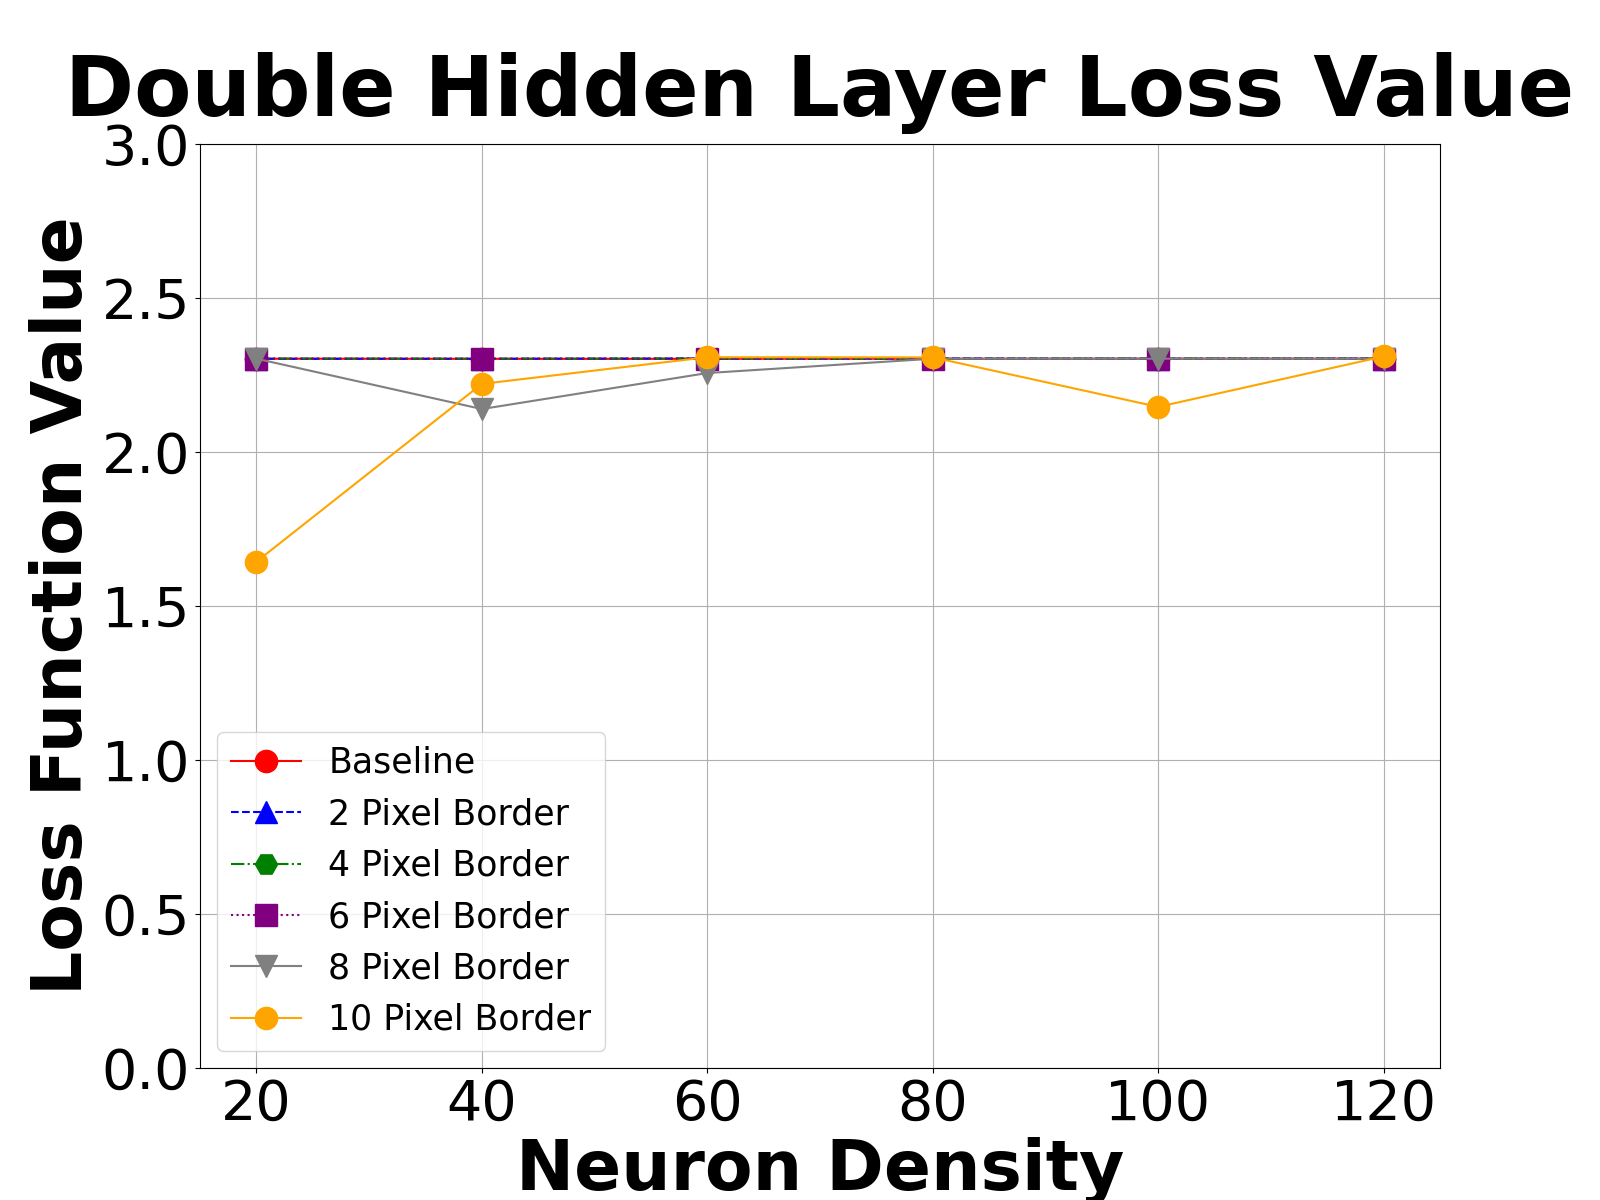
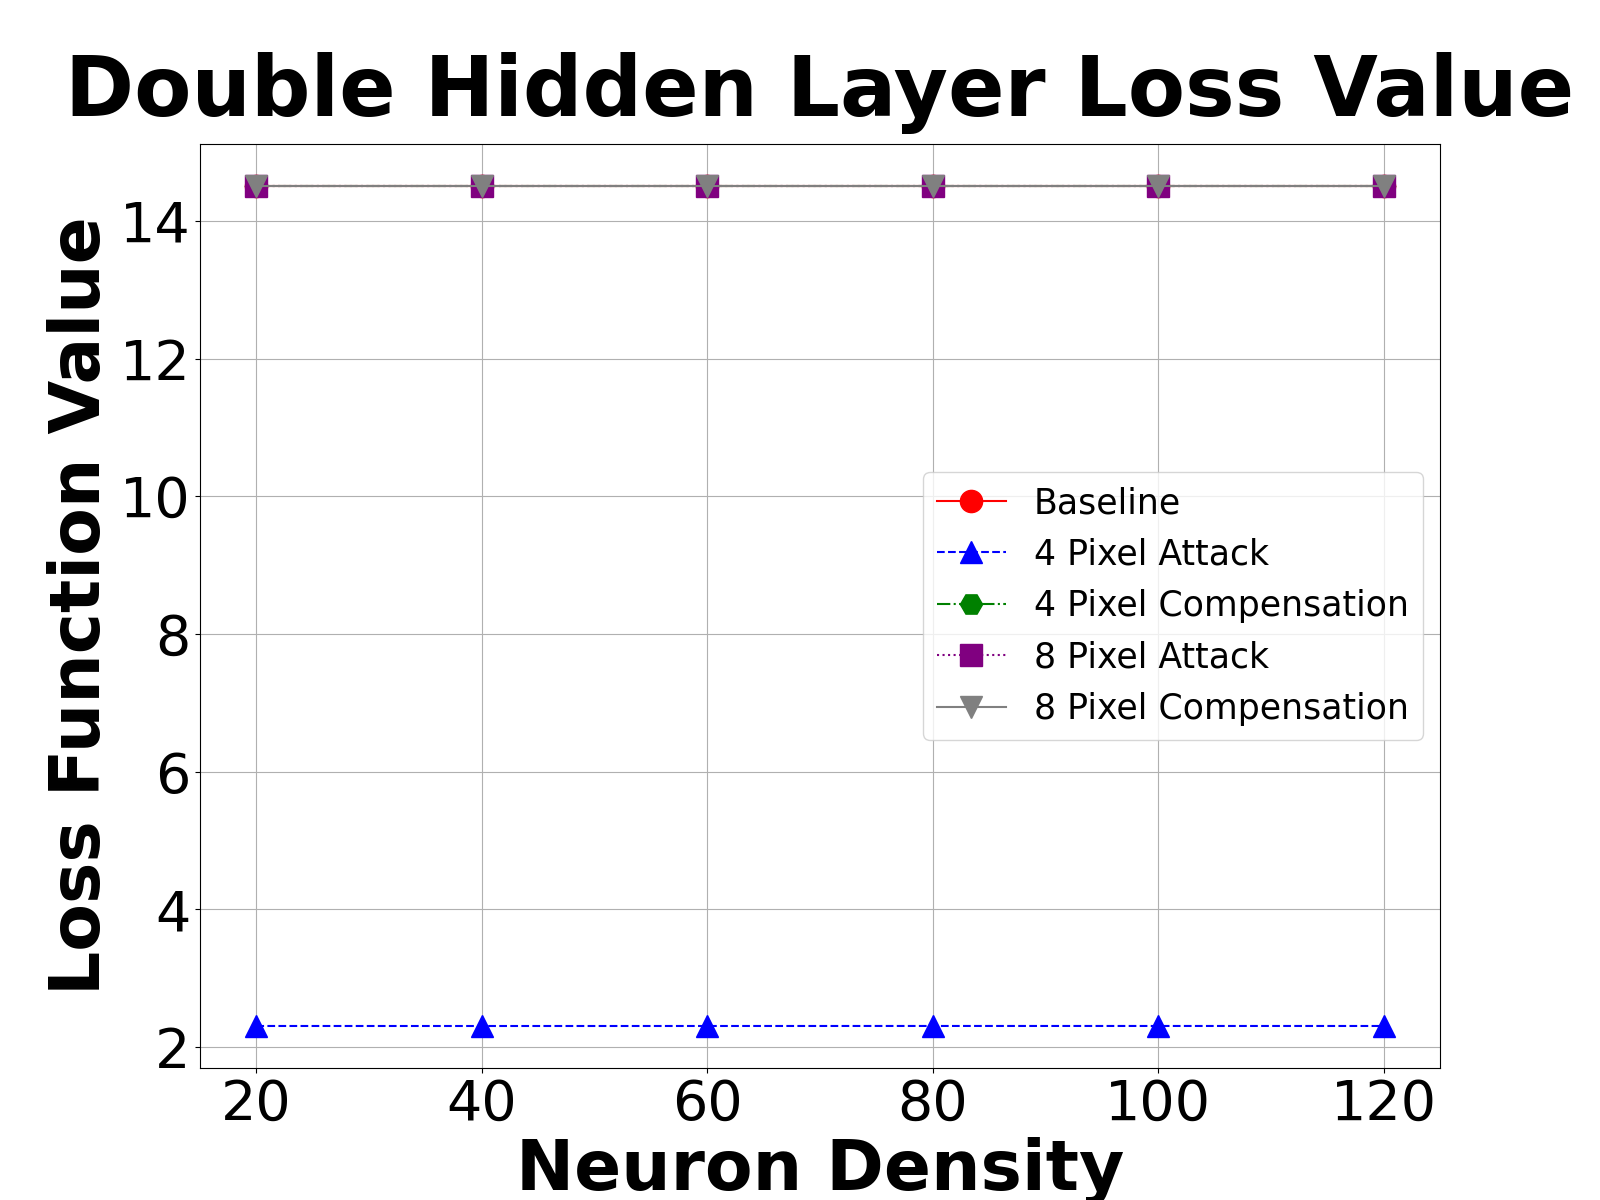
26 June 2020
- Quick updates to classifier
- Inconclusive results

diff --git a/Error-Compensation-Attacks/Error-Compensation-Analysis/ERR_COMP_VIS_Utilities.py b/Error-Compensation-Attacks/Error-Compensation-Analysis/ERR_COMP_VIS_Utilities.py
@@ -25,8 +25,9 @@ class_labels = ['Airplane', 'Automobile', 'Bird', 'Cat', 'Deer', 'Dog', 'Frog', 
 
 dataframe_cols = ['Model','Average Loss','Average Precision','Average Recall']
 
-approx_index = np.concatenate((np.arange(0,10),np.arange(18,28)),axis=-1)
-outfile_name = 'Approx_10.csv'
+approx_index4 = np.concatenate((np.arange(0,4),np.arange(24,28)),axis=-1)
+approx_index8 = np.concatenate((np.arange(0,8),np.arange(20,28)),axis=-1)
+outfile_name = ' '
 
 output_path = 'C:/Users/Landon/Documents/GitHub/Convolutional-Neural-Networks/Error-Compensation-Attacks/Raw_Data'
 
@@ -91,14 +92,14 @@ class ApproximationLayer (keras.layers.Layer):
                 for w in range(W):          # full width
                     for j in range(self.nchs):      # each channel (RGB?)
                         # Mute all bits
-                        x[r][w][j] -= 128 if (x[r][w][j] >= 128) else (x[r][w][j])
-                        #x[r][w][j] = 0
+                        #x[r][w][j] -= 128 if (x[r][w][j] >= 128) else (x[r][w][j])
+                        x[r][w][j] = 0
             for c in self.cols:             # each col to approximate
                 for h in range(H):          # full height
                     for j in range(self.nchs):  # each channel (RGB)
                         # Mute all bits
-                        x[h][c][j] -= 128 if (x[h][c][j] >= 128) else (x[h][c][j])
-                        #x[h][c][j] = 0
+                        #x[h][c][j] -= 128 if (x[h][c][j] >= 128) else (x[h][c][j])
+                        x[h][c][j] = 0
         return X
 
     def call (self,X):
@@ -114,21 +115,62 @@ class CompensationLayer (keras.layers.Layer):
         """ Initialize Layer Instance """
         super(CompensationLayer,self).__init__(trainable=False)
         
-        self.rows = rows    # rows to compensate
-        self.cols = cols    # cols to compensate
-        self.nchs = 1       # number of channels
+        self.b = int(len(rows)/2)
+        self.rows = rows        # rows to compensate
+        self.toprows = rows[:self.b]
+        self.botrows = rows[self.b:]
+        self.cols = cols        # cols to compensate
+        self.nchs = 1           # number of channels
 
     def compensate(self,X):
         """ Apply Compensation to samples in batch X """
-        
-        # Top-Center
-        comp_rows = self.rows + len(self.rows)/2
+        b = len(self.rows)/2         # approx border width
+        X = np.copy(X)         
+        for x in X:             # each sample 
 
+            x[self.toprows] = x[self.b:2*self.b]                # patch top
+            x[self.botrows] = x[(28-(2*self.b)):(28-self.b)]    # patch bottom         
+            x = np.transpose(x,axes=(1,0,2))
+
+            x[self.toprows] = x[self.b:2*self.b]                # patch top
+            x[self.botrows] = x[(28-(2*self.b)):(28-self.b)]    # patch bottom 
+            x = np.transpose(x,axes=(1,0,2))
+                
+        return X
 
     def call (self,X):
         """ Call Layer Object w/ X, return output Y"""
-        Y = X
+        Y = self.compensate(X)
         return Y
+
+def Load_Fashion_MNIST10(train_size=10000,test_size=6000):
+    """ Load in CFAR-10 Data set """
+    print("Loading Fashion MNIST-10 Data...\n")
+    (X_train,y_train),(X_test,y_test) = keras.datasets.fashion_mnist.load_data()
+    X_train,y_train = X_train[:train_size],y_train[:train_size]              
+    X_test,y_test = X_test[:test_size],y_test[:test_size]
+    X_train = X_train.reshape(train_size,28,28,1)
+    X_test = X_test.reshape(test_size,28,28,1)
+    return X_train,y_train,X_test,y_test
+
+def Plot_Matrix (X,title='',save=False,show=False):
+    """
+    Visualize 2D Matrix
+    --------------------------------
+    X (arr) : Matrix (n_rows x n_columns) to visualize
+    title (str) : title for figure
+    --------------------------------
+    Return None
+    """
+    #plt.title(title,size=40,weight='bold')
+    plt.imshow(X.reshape(28,28),cmap=plt.cm.binary)
+    plt.xticks([])
+    plt.yticks([])
+    if save == True:
+        title = title.replace(': ','_')
+        plt.savefig(title.replace(' ','_')+'.png')
+    if show == True:
+        plt.show()
 
 def Plot_Metric (objs=[],attrbs='',metric='',ylab='',labs=[],title='',save=False,show=False):
     """
@@ -154,13 +196,12 @@ def Plot_Metric (objs=[],attrbs='',metric='',ylab='',labs=[],title='',save=False
     plt.plot(neurons,data[2],color='green',linestyle='-.',marker='H',ms=16,label=labs[2])
     plt.plot(neurons,data[3],color='purple',linestyle=':',marker='s',ms=16,label=labs[3])
     plt.plot(neurons,data[4],color='gray',linestyle='-',marker='v',ms=16,label=labs[4])
-    plt.plot(neurons,data[5],color='orange',linestyle='-',marker='o',ms=16,label=labs[5])
+    #plt.plot(neurons,data[5],color='orange',linestyle='-',marker='o',ms=16,label=labs[5])
 
-    if metric == 'Average Loss':
-        plt.yticks(np.arange(0,3.1,0.5))
-
-    else:
-        plt.yticks(np.arange(0,1.1,0.1))
+    #if metric == 'Average Loss':
+     #   plt.yticks(np.arange(0,3.1,0.5))
+    #else:
+     #   plt.yticks(np.arange(0,1.1,0.1))
 
     plt.grid()
     plt.legend(fontsize=25)

diff --git a/Error-Compensation-Attacks/Error-Compensation-Analysis/ERR_COMP_VIS_MAIN.py b/Error-Compensation-Attacks/Error-Compensation-Analysis/ERR_COMP_VIS_MAIN.py
@@ -22,8 +22,8 @@ if __name__ == '__main__':
     data_path = 'C:/Users/Landon/Documents/GitHub/Convolutional-Neural-Networks/Error-Compensation-Attacks/Raw_Data'
     expt_path = 'C:/Users/Landon/Documents/GitHub/Convolutional-Neural-Networks/Presentations/Error-Compensation-Attacks/'
 
-    CSV_FILES = [   'Baseline.csv','Approx_2.csv','Approx_4.csv',
-                    'Approx_6.csv','Approx_8.csv','Approx_10.csv']
+    CSV_FILES = [   'Baseline.csv','Approx_4.csv','Comp_4.csv',
+                                    'Approx_8.csv','Comp_8.csv']
 
     files_objs = []
     for file in CSV_FILES:
@@ -34,29 +34,22 @@ if __name__ == '__main__':
     os.chdir(expt_path)
 
     """
-    for I in range(0,10,2):
-        X = X[:10]
-        Vis_utils.Plot_Matrix(X[I],'Original: '+str(y[I]),save=True)     
-        # 3 pixel border
-        Approx_Layer = Vis_utils.ApproximationLayer(rows=np.concatenate((np.arange(0,3),np.arange(25,28))),
-                                                    cols=np.concatenate((np.arange(0,3),np.arange(25,28))))
-        X = Approx_Layer.call(X)
-        Vis_utils.Plot_Matrix(X[I],'3 Pixel Border: '+str(y[I]),save=True)
-        # 5 pixel border
-        Approx_Layer = Vis_utils.ApproximationLayer(rows=np.concatenate((np.arange(0,5),np.arange(23,28))),
-                                                    cols=np.concatenate((np.arange(0,5),np.arange(23,28))))
-        X = Approx_Layer.call(X)
-        Vis_utils.Plot_Matrix(X[I],'5 Pixel Border: '+str(y[I]),save=True)
-        # 7 pixel border
-        Approx_Layer = Vis_utils.ApproximationLayer(rows=np.concatenate((np.arange(0,7),np.arange(21,28))),
-                                                    cols=np.concatenate((np.arange(0,7),np.arange(21,28))))
-        X = Approx_Layer.call(X)
-        Vis_utils.Plot_Matrix(X[I],'7 Pixel Border: '+str(y[I]),save=True)
+    X_train,y_train,X_test,y_test = Vis_utils.Load_Fashion_MNIST10(10,100)
+    X = X_test
+
+    Vis_utils.Plot_Matrix(X[1],'Original',save=True)
+    ApproxLayer = Vis_utils.ApproximationLayer(rows=Vis_utils.approx_index4,
+                                                cols=Vis_utils.approx_index4)
+    X = ApproxLayer.call(X)                 
+    Vis_utils.Plot_Matrix(X[1],'Approx4',save=True)
+    CompLayer = Vis_utils.CompensationLayer(rows=Vis_utils.approx_index4,
+                                            cols=Vis_utils.approx_index4)
+    X = CompLayer.call(X)
+    Vis_utils.Plot_Matrix(X[1],'Compensate4',save=True)
 
     """
-
-    labs=[  'Baseline','2 Pixel Border','4 Pixel Border',
-            '6 Pixel Border','8 Pixel Border','10 Pixel Border']
+    labs=[  'Baseline','4 Pixel Attack','4 Pixel Compensation',
+                        '8 Pixel Attack','8 Pixel Compensation']
 
     # Loss Function values
     Vis_utils.Plot_Metric(files_objs,'single_layer',metric='Average Loss',labs=labs,
@@ -76,4 +69,3 @@ if __name__ == '__main__':
     Vis_utils.Plot_Metric(files_objs,'double_layer',metric='Average Recall',labs=labs,
                         ylab='Recall Score',title="Double Hidden Layer Recall",save=True)
 
- 

diff --git a/Error-Compensation-Attacks/Error-Compensation-Attacks_v0/ERR_COMP_MAIN.py b/Error-Compensation-Attacks/Error-Compensation-Attacks_v0/ERR_COMP_MAIN.py
@@ -32,7 +32,7 @@ if __name__ == '__main__':
         output_frame = pd.DataFrame(columns=utils.dataframe_cols)
 
         N_iters = 4             # Time to repeat each model
-        n_epochs = 50           # epochs over data set
+        n_epochs = 20           # epochs over data set
 
         utils.Plot_Sample(X_test[1],' ')
 
@@ -75,6 +75,7 @@ if __name__ == '__main__':
                 # Compute Averages of N_iters Models
                 like_model_data = like_model_data.reshape(N_iters,-1)
                 stats = np.mean(like_model_data,axis=0)                 # avg over N_iters
+                print("\t\t\t",stats)
                 
                 row = pd.DataFrame(data=[[model_name,stats[0],stats[1],stats[2]]],
                                    columns=utils.dataframe_cols)
